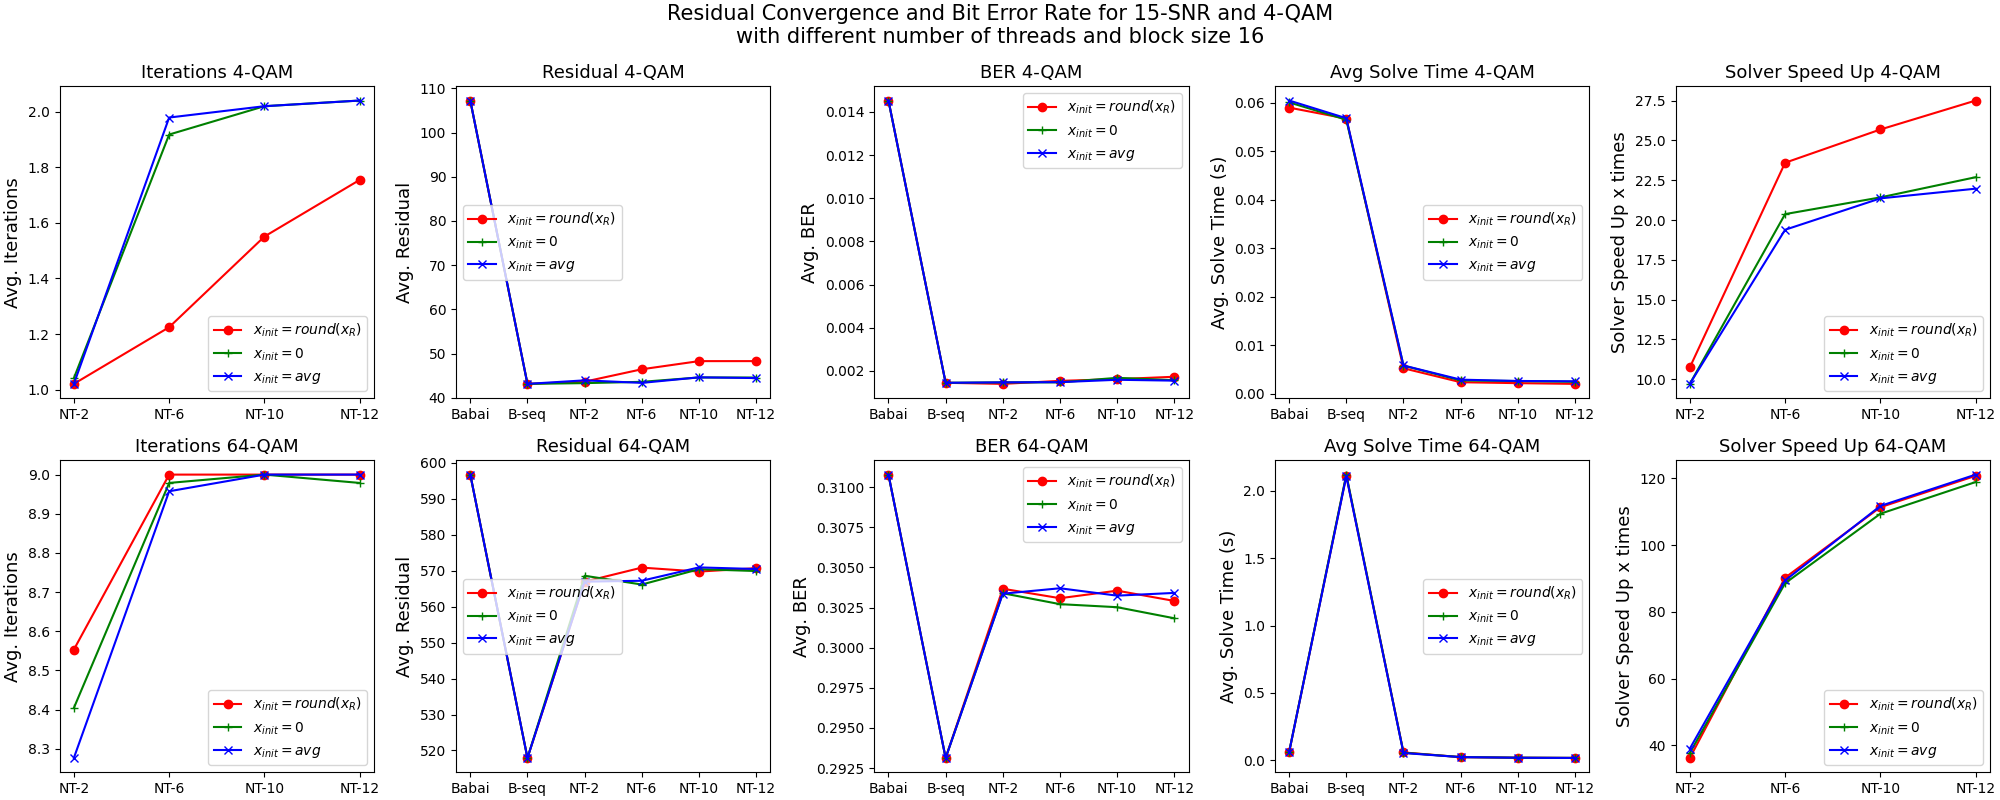
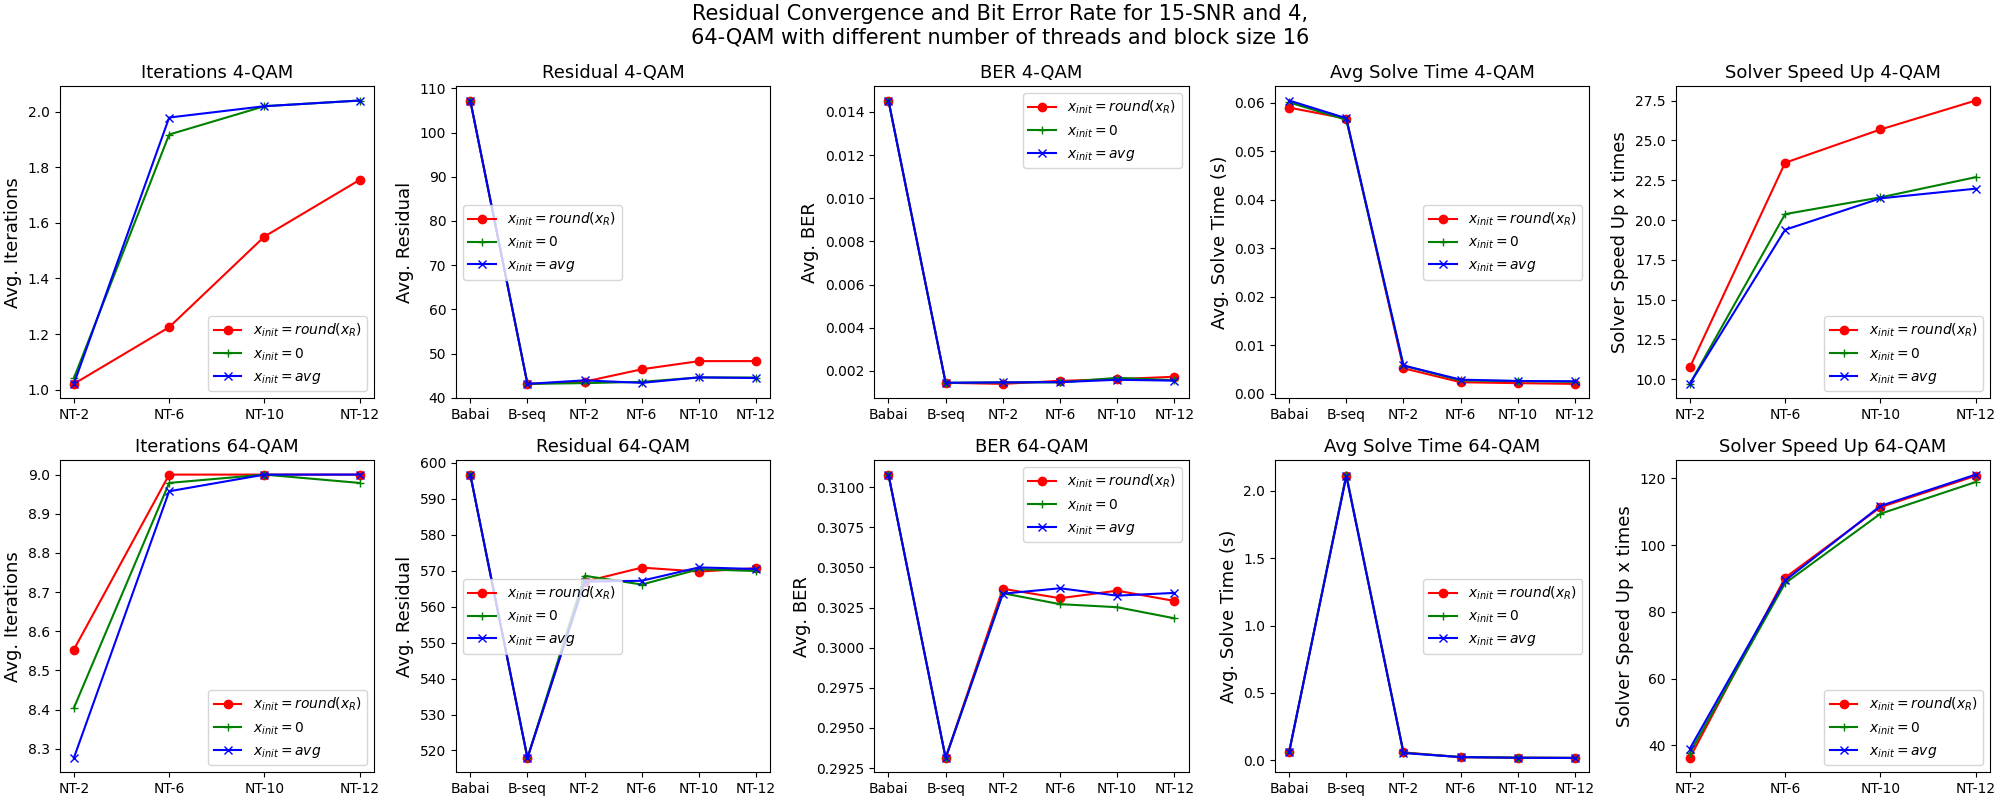
Test 14

Changed region(s): [[0.341, 0.0, 0.682, 0.0625]]

diff --git a/babai_asyn_c++/src/source/cils_block_search.cpp b/babai_asyn_c++/src/source/cils_block_search.cpp
@@ -163,7 +163,9 @@ namespace cils {
 //                            }
 //                        }
                         diff += result[i];
-                        flag = (diff + end) >= ds - stop;
+                        if (mode != 0) {
+                            flag = (diff + end) >= ds - stop;
+                        }
                     }
 
                 }
@@ -185,7 +187,7 @@ namespace cils {
 
         returnType<scalar, index> reT;
         if (mode == 0)
-            reT = {z_B, run_time2, diff};
+            reT = {z_B, run_time2, diff + end};
         else {
             reT = {z_B, run_time2, num_iter};
             cout << "n_proc:" << n_proc << "," << "init:" << init << "," << diff << "," << end << ",Ratio:"

diff --git a/results/2021_02_14/plot_helper.py b/results/2021_02_14/plot_helper.py
@@ -211,7 +211,7 @@ def plot_runtime(n, SNRs, f):
             k = k + 3
 
     title = 'Residual Convergence and Bit Error Rate for ' + str(SNRs[0]) + '-SNR and ' \
-            + str(pow(4, f[0])) + '-QAM with different number of threads and block size 16'
+            '4, 64-QAM with different number of threads and block size 16'
     fig.suptitle("\n".join(wrap(title, 60)), fontsize=15)
     plt.savefig('./' + str(n) + '_run_plot_' + str(SNRs[0]))
     plt.close()
@@ -353,7 +353,7 @@ def plot_qrtime(n, SNRs, f):
 
 
 def plot_res(n):
-    SNRs = [35]
+    SNRs = [15]
     f = [1, 3]
     # file = open(str(n) + '_' + str(f) + '_res.out', 'r')
     # plot_residual(n, SNRs, f)

diff --git a/babai_asyn_c++/src/include/config.h b/babai_asyn_c++/src/include/config.h
@@ -30,7 +30,7 @@ namespace cils {
         index block_size = 16;
         index is_constrained = true;
         index is_read = false;
-        index mode = 1; //test mode 3: c++ gen
+        index mode = 0; //test mode 3: c++ gen
         index num_trials = 10; //nswp
         index is_local = 1;
         index max_search = 7000;
